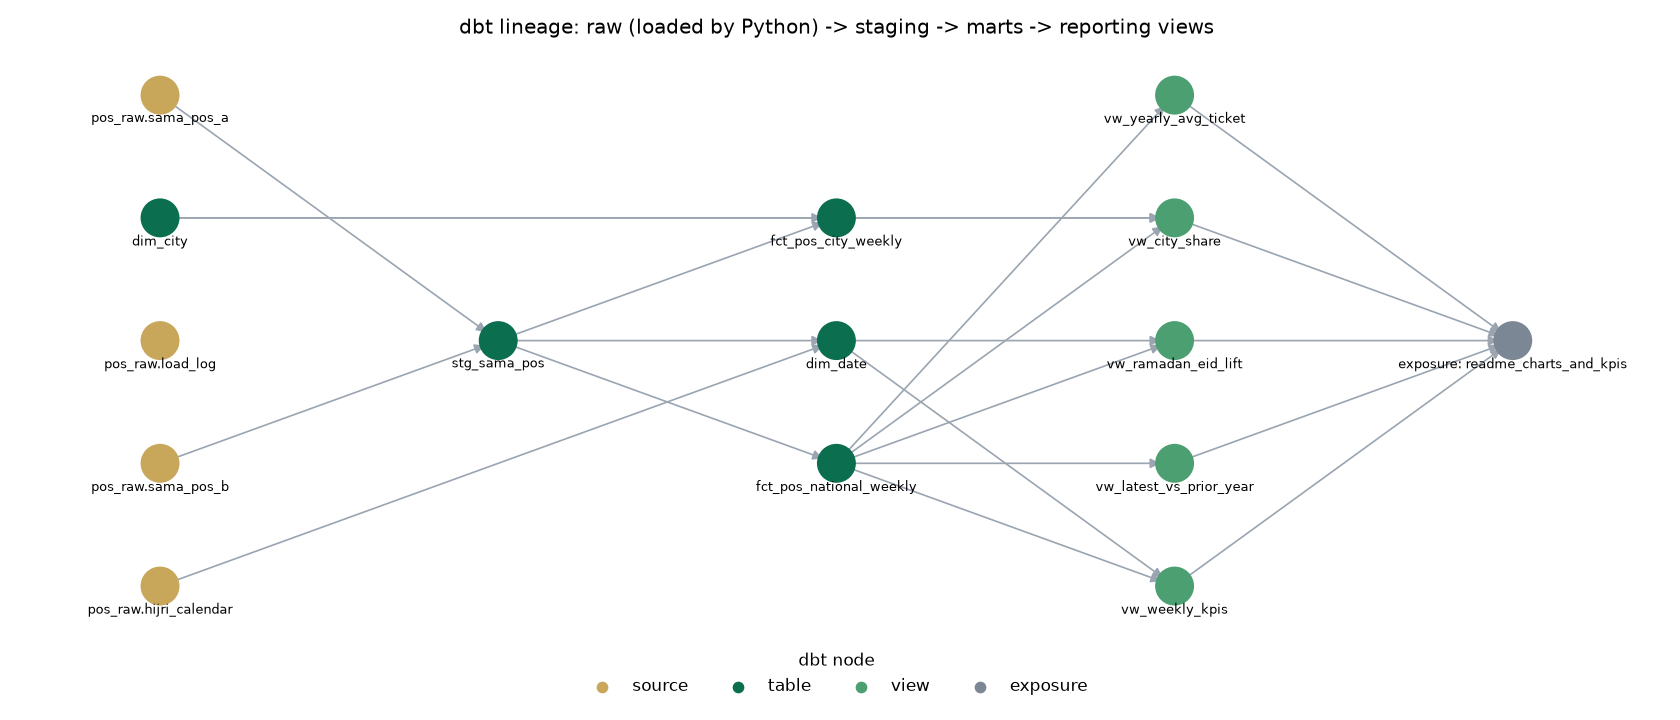
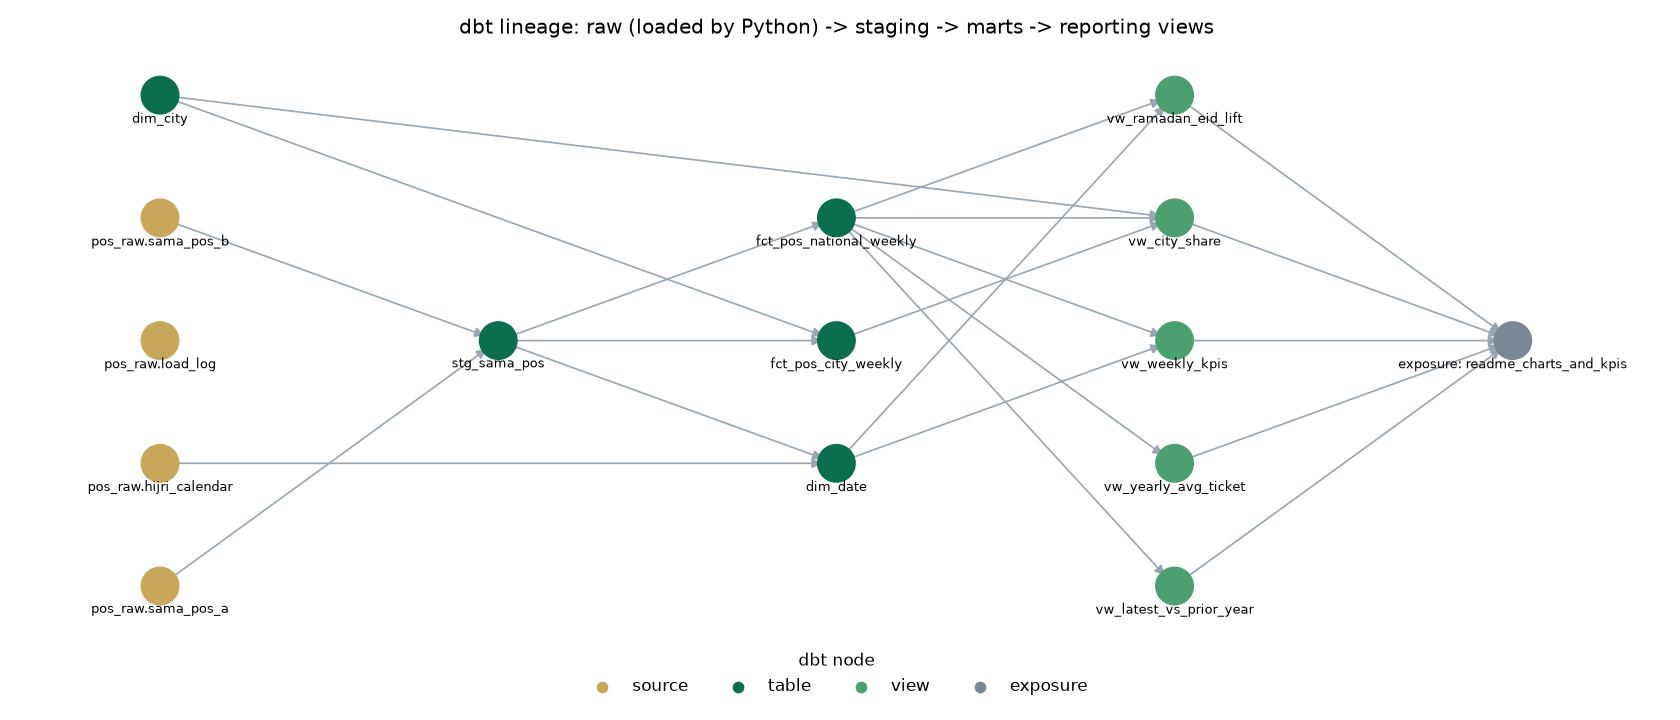
CI: Node 24 action majors; deterministic lineage layout

diff --git a/src/pos_elt/lineage.py b/src/pos_elt/lineage.py
@@ -15,18 +15,18 @@ def draw_lineage(manifest_path: Path, out: Path) -> Path:
     m = json.loads(manifest_path.read_text())
     g = nx.DiGraph()
     kinds = {}
-    for uid, s in m["sources"].items():
+    for uid, s in sorted(m["sources"].items()):
         kinds[uid] = "source"
         g.add_node(uid, label=f"{s['source_name']}.{s['name']}")
-    for uid, n in m["nodes"].items():
+    for uid, n in sorted(m["nodes"].items()):
         if n["resource_type"] != "model":
             continue
         kinds[uid] = n["config"]["materialized"]
         g.add_node(uid, label=n["name"])
-        for dep in n["depends_on"]["nodes"]:
+        for dep in sorted(n["depends_on"]["nodes"]):
             if dep in kinds or dep.startswith(("source.", "model.")):
                 g.add_edge(dep, uid)
-    for uid, e in m.get("exposures", {}).items():
+    for uid, e in sorted(m.get("exposures", {}).items()):
         kinds[uid] = "exposure"
         g.add_node(uid, label=f"exposure: {e['name']}")
         for dep in e["depends_on"]["nodes"]:
